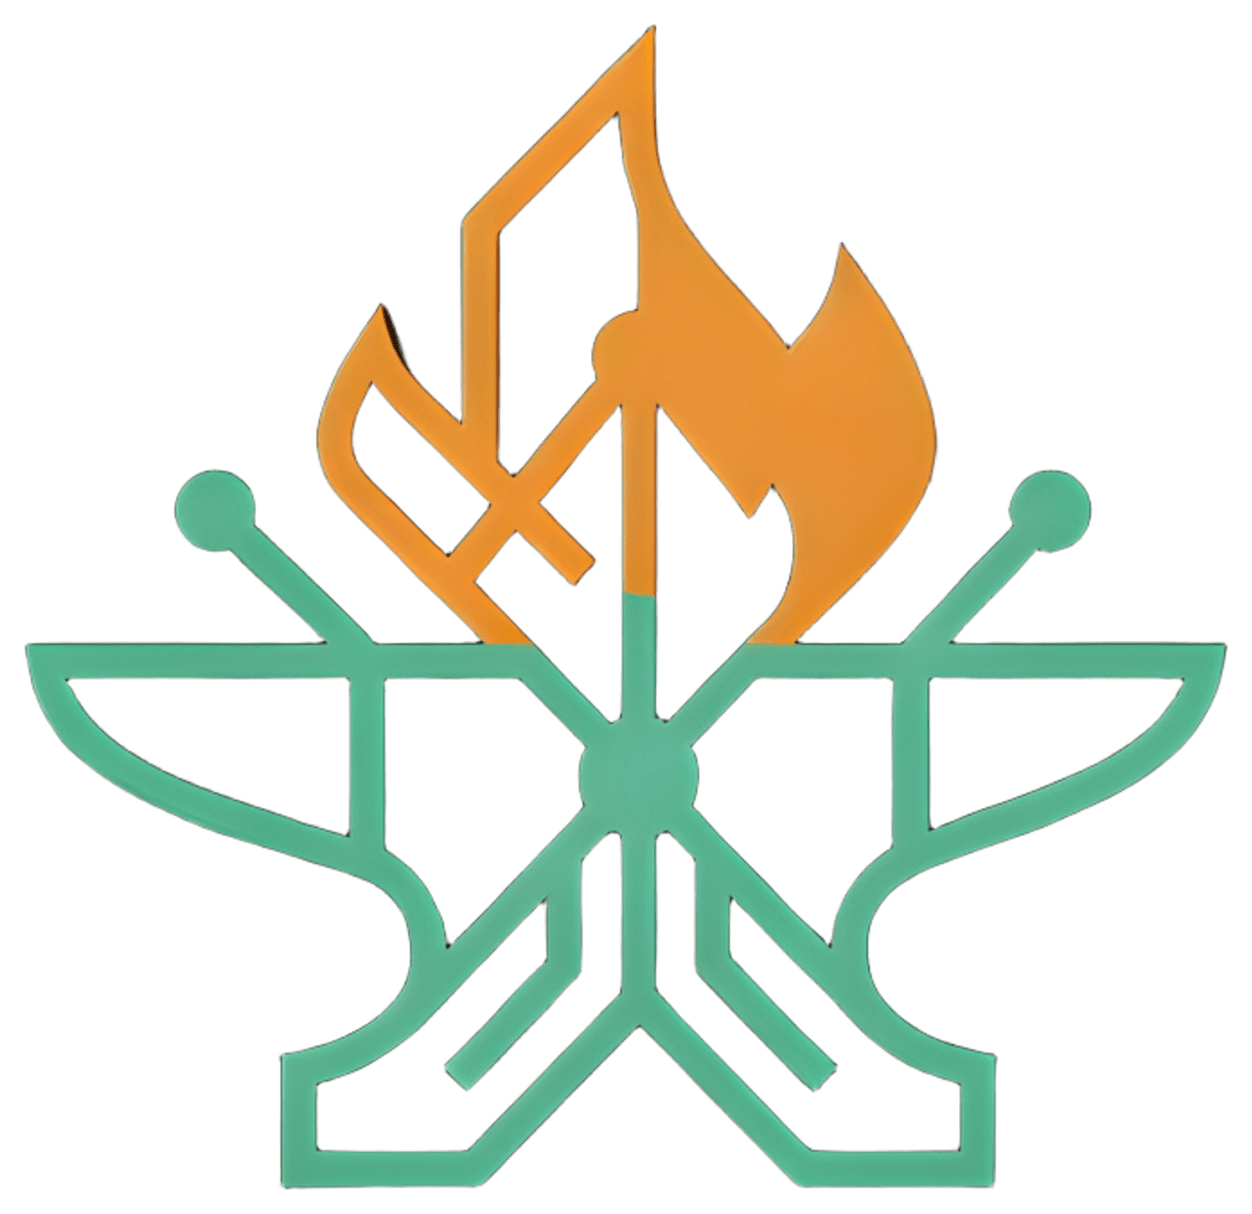
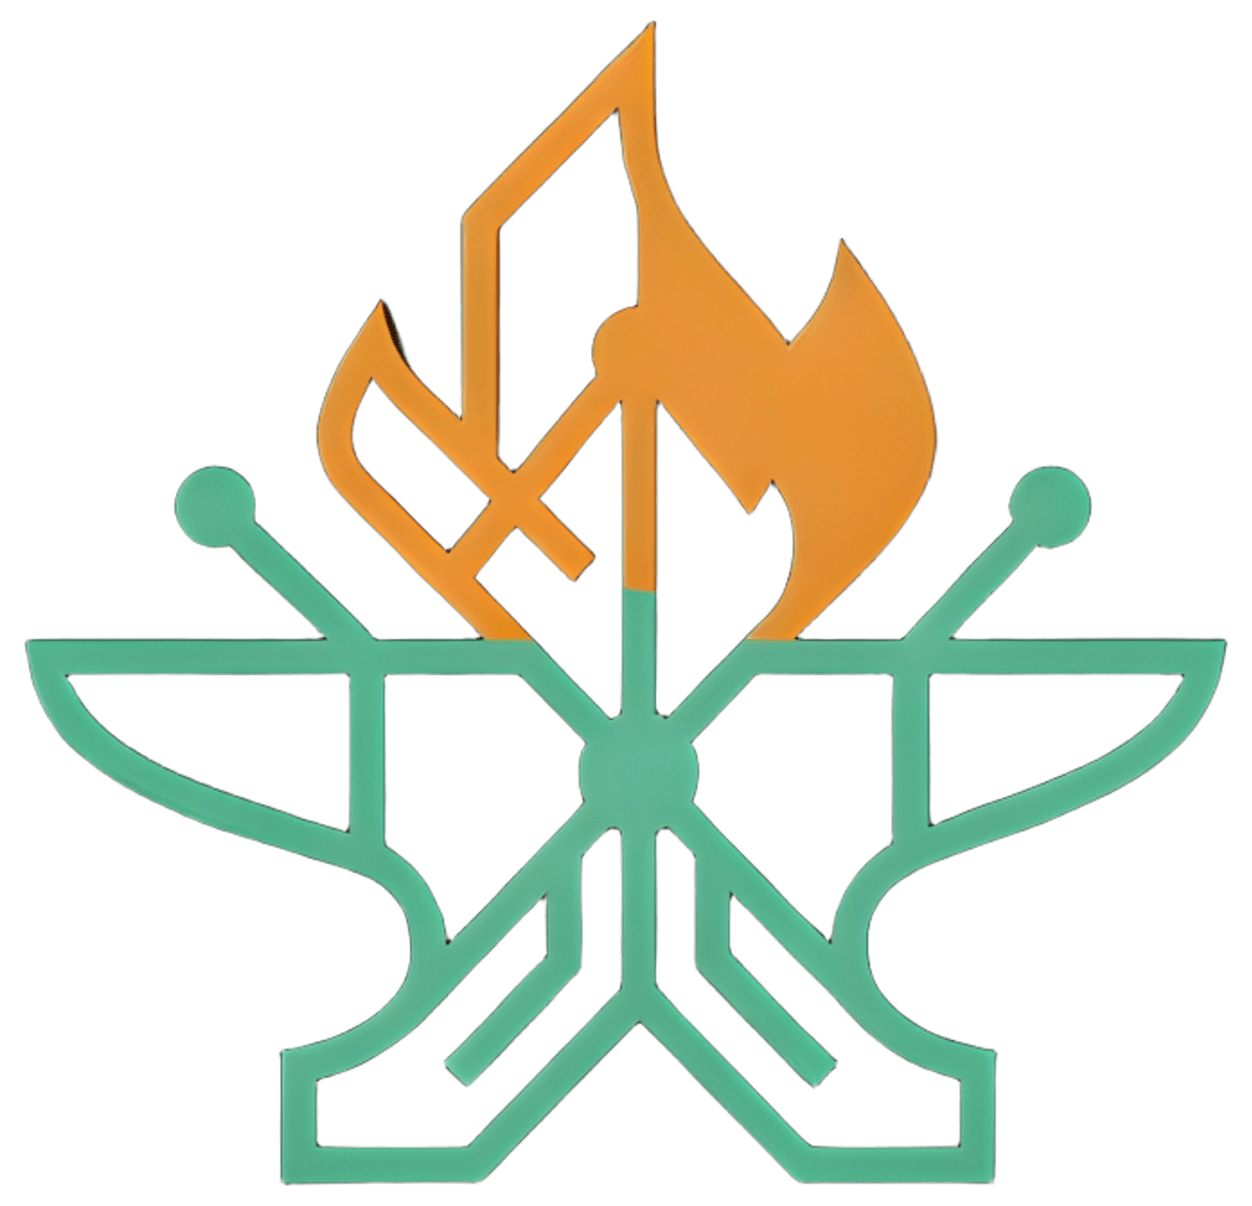
style(ui): mathematically balance optical center of Forge symbol and MultiForge text at exact 50% line

diff --git a/ForgeImager/src/styles/layout.css b/ForgeImager/src/styles/layout.css
@@ -86,16 +86,15 @@
 }
 
 .logo-symbol {
-  height: 44px;
+  height: 46px;
   width: auto;
   display: block;
   object-fit: contain;
-  margin-top: -5px;
   transition: transform 0.2s ease, opacity 0.2s ease;
 }
 
 .logo-text {
-  height: 36px;
+  height: 38px;
   width: auto;
   display: block;
   object-fit: contain;
